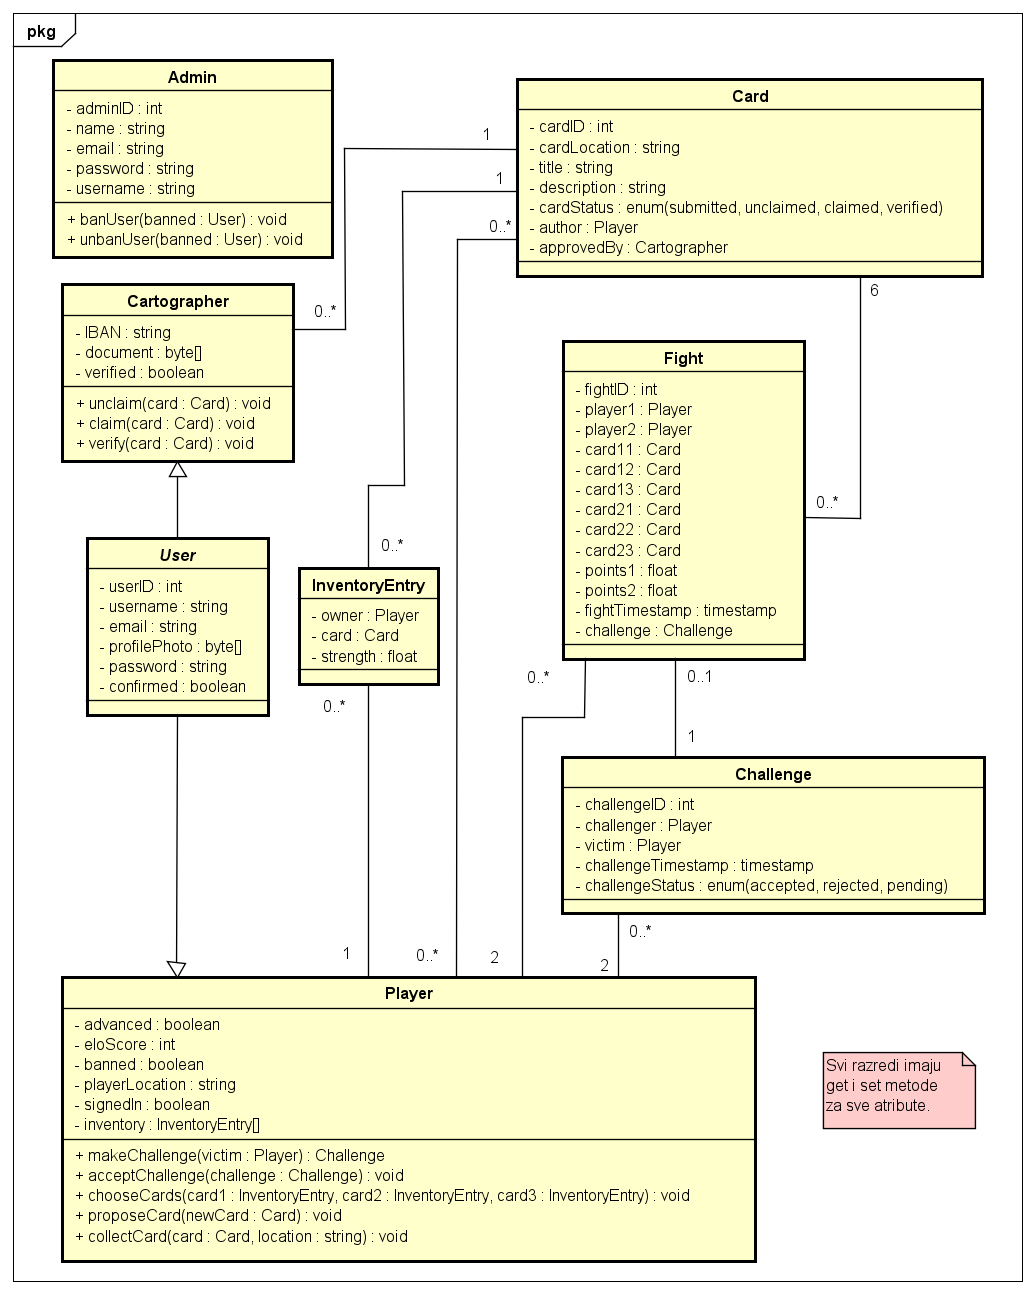
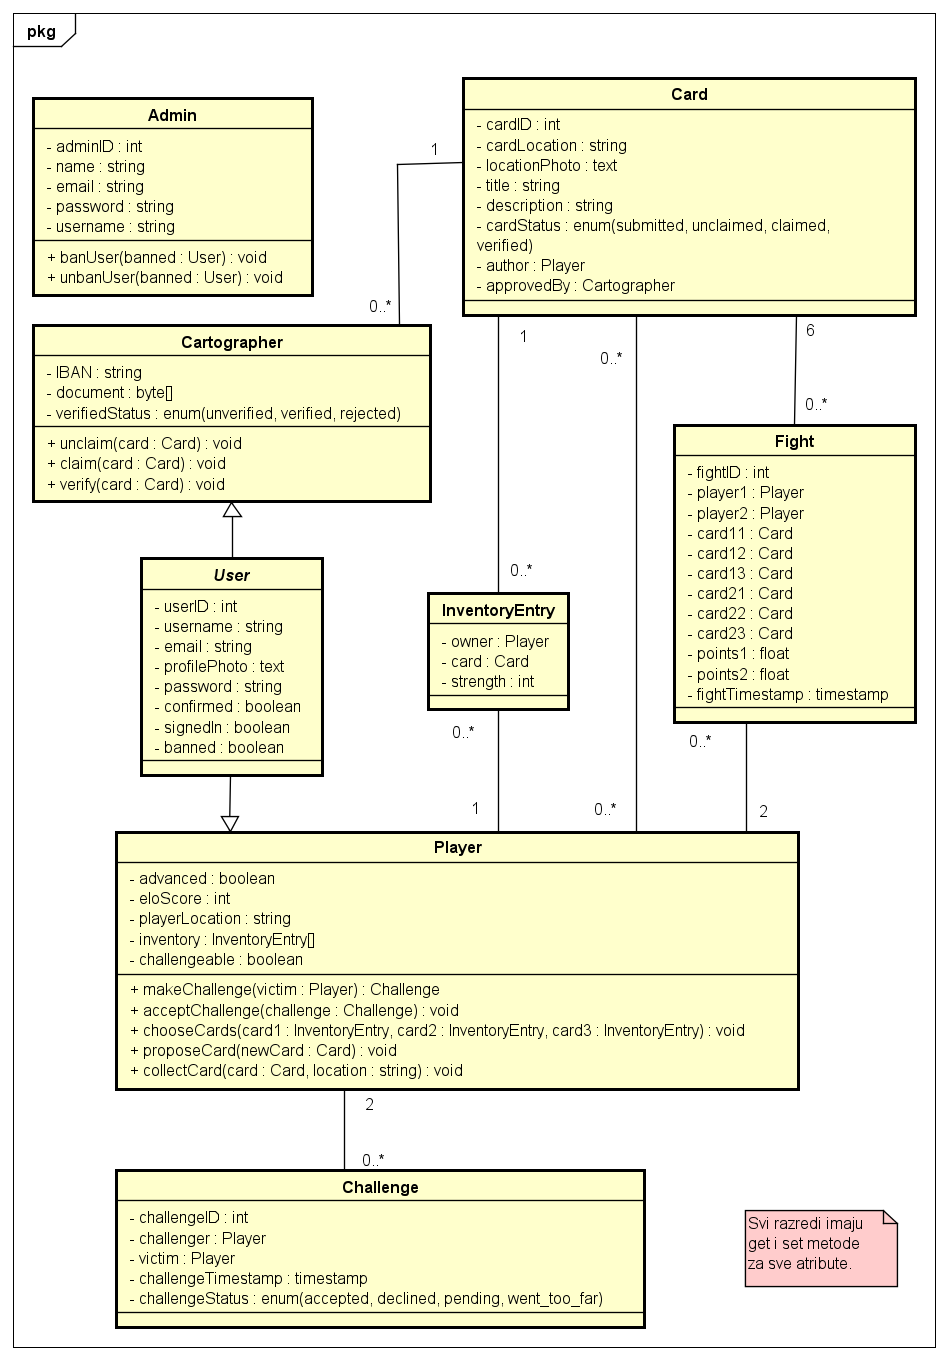
Dokumentacija revizija 1.5

diff --git a/Dokumentacija/Arhitektura.tex b/Dokumentacija/Arhitektura.tex
@@ -250,7 +250,7 @@
     			\label{fig:classDiagramDTO}
     		\end{figure}
     		
-    		Dijagram koji prikazuje modele sadrži klase koje preslikavaju stvarne entitete u objektnu paradigmu, a uz to omogućuju i komunikaciju s bazom podataka. Razred \textit{Admin} predstavlja administratora koji ima najveće ovlasti i mogućnosti izmjene podataka. \textit{User} je pak apstraktna klasa koja modelira korisnika nastalog registracijom, konkretno to mogu biti \textit{Cartographer} i \textit{Player}, a oni su klase koje nasljeđuju klasu \textit{User} i pružaju specifične funkcionalnosti i komunikaciju s pripadnim relacijama u bazi podataka. Razred \textit{Card} pruža vezu između pripadne relacije u bazi podataka i objektnog modela, a sadrži podatke bitne za prikaz i smještanje kartice u prostoru. Razred \textit{InventoryEntry} povezuje karticu s igračem dodajući joj pritom snagu koja skalira učinak kartice u borbi. Razredom \textit{Challenge} grupiraju se podatci vezani uz izazov koji je jedan igrač uputio drugom, a koji može rezultirati borbom. Klasa \textit{Fight} predstavlja skup podataka koja je potrebna za razrješenje pobjednika neke borbe.
+    		Dijagram koji prikazuje modele sadrži klase koje preslikavaju stvarne entitete u objektnu paradigmu, a uz to omogućuju i komunikaciju s bazom podataka. Razred \textit{Admin} predstavlja administratora koji ima najveće ovlasti i mogućnosti izmjene podataka. \textit{User} je pak apstraktna klasa koja modelira korisnika nastalog registracijom, konkretno to mogu biti \textit{Cartographer} i \textit{Player}, a oni su klase koje nasljeđuju klasu \textit{User} i pružaju specifične funkcionalnosti i komunikaciju s pripadnim relacijama u bazi podataka. Razred \textit{Card} pruža vezu između pripadne relacije u bazi podataka i objektnog modela, a sadrži podatke bitne za prikaz i smještanje kartice u prostoru. Razred \textit{InventoryEntry} povezuje karticu s igračem dodajući joj pritom snagu koja skalira učinak kartice u borbi. Razredom \textit{Challenge} grupiraju se podatci vezani uz izazov koji je jedan igrač uputio drugom, a koji može rezultirati borbom. Klasa \textit{Fight} predstavlja skup podataka koji je potreban za razrješenje pobjednika neke borbe.
 			
 			\begin{figure}[H]
         			\includegraphics[width=\textwidth]{slike/ClassDiagrams/Models.png}
@@ -312,7 +312,12 @@
 			\eject
 			
 		\section{Dijagram komponenti}
-		
-			\textbf{\textit{dio 2. revizije}}\\
-		
-			 \textit{Potrebno je priložiti dijagram komponenti s pripadajućim opisom. Dijagram komponenti treba prikazivati strukturu cijele aplikacije.}
+			 
+			 Dijagram komponenti koji se nalazi na slici \ref{fig:dijagramKomponenti} prikazuje strukturu cijele aplikacije. \textit{Frontend} komponenti pristupa se putem sučelja kojim se dohvaćaju HTML, CSS i JS datoteke koje realiziraju korisničko sučelje za korištenje aplikacijom. To je postignuto nizom TypeScript datoteka koje od kojih svaka čini pojedinu React komponentu koju smo mi realizirali koristeći razne gotove React i Material UI komponente. Prije isporuke aplikacije porisniku, TypeScript programski kod prevodi se u JavaScript kod. Sve TypeScript datoteke ovise o React biblioteci. Kako bi korisniku pružila funkcionalnost, React aplikacija koja je isporučena korisniku koristi sučelje za dohvat JSON podataka kako bi pristupila GlobeRunner aplikaciji koju prema REST načelu realizira Flask razvojno okruženje u korijenskoj ruti flask aplikacije. Od tamo, a na temelju navedenih ruta, preusmjeravaju se zahtjevi koje aplikacija zaprimi kako bi ih obradila konkretna podkomponenta. Flask uz alat SQLAlchemy ostvaruje \textit{Object Relational Mapping} koristeći implementaciju klasa u komponenti Models pomoću kojih su stvorene tablice u bazi podataka. SQLAlchemy ostvaruje komunikaciju s bazom i dohvaća potrebne podatke izvršavanjem SQL upita.
+			 
+			 \begin{figure}[H]
+        			\includegraphics[width=\textwidth]{slike/dijagramKomponenti.png}
+        			\centering
+        			\caption{Dijagram komponenti}
+        			\label{fig:dijagramKomponenti}
+        		\end{figure}

diff --git a/Dokumentacija/Dnevnik_promjena_dokumentacije.tex b/Dokumentacija/Dnevnik_promjena_dokumentacije.tex
@@ -28,7 +28,9 @@
 			1.1 & Ispravci 4.1 poglavlja, izmijenjen dijagram baze podataka & S.Rivic Carevic & 10.01.2023. \\[3pt] \hline
 			1.2 & Dodan dijagram razmještaja i njegov opis & S.Rivic Carevic & 11.01.2023. \\[3pt] \hline
 			1.3 & Dodan dijagram aktivnosti i njegov opis & S.Rivic Carevic & 12.01.2023. \\[3pt] \hline
-			1.4 & Dodan dijagram stanja i njegov opis & S.Rivic Carevic & 13.01.2023. \\[3pt] \hline
+			1.4 & Dodan dijagram stanja i njegov opis & S.Rivic Carevic & 13.01.2023.
+			\\[3pt] \hline
+			1.5 & Ažuriran dijagram razreda i dodan dijagram komponenti s opisom & V. Pezo & 13.01.2023. \\[3pt] \hline
 		
 		\end{longtblr}
 	
